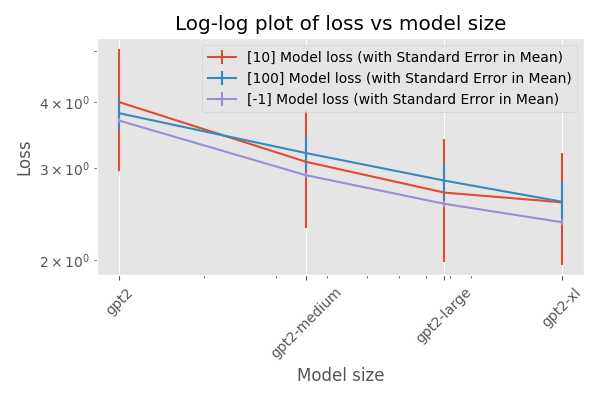
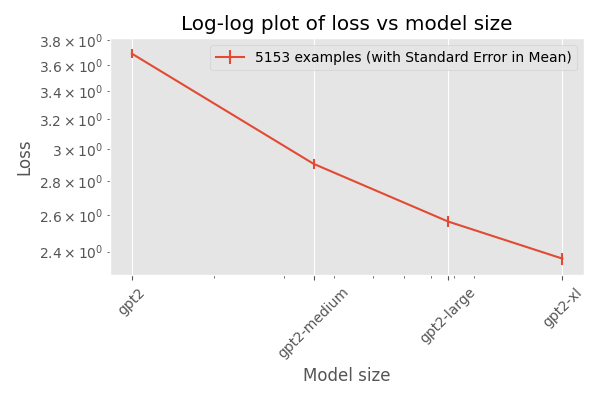
add ability to plot variable number of examples

diff --git a/eval_pipeline/plot_loss.py b/eval_pipeline/plot_loss.py
@@ -39,14 +39,14 @@ def main():
         base_results_dir = Path(project_dir, "results")
     exp_dir = Path(base_results_dir, args.exp_dir)
     if args.task_type == "classification":
-        plot_classification_loss(exp_dir)
+        plot_classification_loss(exp_dir, args.dataset_sizes)
     elif args.task_type == "numeric":
         plot_numeric_loss(exp_dir)
     else:
         raise ValueError(f"unknown task type {args.task_type}")
 
 
-def plot_classification_loss(exp_dir: Path):
+def plot_classification_loss(exp_dir: Path, dataset_sizes: list[int]):
     loss_csvs = [f for f in exp_dir.glob("*.csv") if f.name != "data.csv"]
     data_csv = pd.read_csv(Path(exp_dir, "data.csv"), index_col=0).reset_index(
         drop=True
@@ -63,13 +63,18 @@ def plot_classification_loss(exp_dir: Path):
     if len(loss_csvs) == 0:
         raise ValueError(f"{exp_dir} does not exist or contains no output files")
     dfs = {csv_file.stem: pd.read_csv(csv_file, index_col=0) for csv_file in loss_csvs}
-
-    averages = {model_name: np.mean(df["loss"]) for model_name, df in dfs.items()}
-    standard_errors = {
-        model_name: np.std(df["loss"]) / np.sqrt(len(df["loss"]))
-        for model_name, df in dfs.items()
-    }
-    plot_loss(exp_dir, averages, standard_errors, baseline=baseline_loss)
+    # one dict containing all different plots to be made, with their labels as keys
+    separate_plot_dict = {}
+    for size in dataset_sizes:
+        size_dfs = {name: df[:size] for name, df in dfs.items()}
+        averages = {model_name: np.mean(df["loss"]) for model_name, df in size_dfs.items()}
+        standard_errors = {
+            model_name: np.std(df["loss"]) / np.sqrt(len(df["loss"]))
+            for model_name, df in size_dfs.items()
+        }
+        size_name = str(size) if size != -1 else len(list(dfs.values())[0])
+        separate_plot_dict[size_name] = (averages, standard_errors)
+    plot_loss(exp_dir, separate_plot_dict, baseline=baseline_loss)
 
 
 def plot_numeric_loss(exp_dir: Path):
@@ -81,13 +86,12 @@ def plot_numeric_loss(exp_dir: Path):
         )
     with data_file.open("r") as f:
         averages = json.load(f)
-    plot_loss(exp_dir, averages)
+    plot_loss(exp_dir, {"numeric": (averages, None)})
 
 
 def plot_loss(
     exp_dir: Path,
-    loss_dict: dict[str, float],
-    standard_errors: Optional[dict[str, float]] = None,
+    separate_plots_dict: dict[str, tuple[dict, Optional[dict]]],
     baseline: Optional[float] = None,
 ) -> None:
     plt.style.use("ggplot")
@@ -102,23 +106,24 @@ def plot_loss(
             label="Baseline loss (equal probability)",
         )
 
-    if standard_errors is not None:
-        errorbar_data = [
-            (size_dict[size], loss, standard_errors[size])
-            for size, loss in loss_dict.items()
-        ]
-        xs, ys, yerrs = zip(*sorted(errorbar_data, key=lambda pair: pair[0]))
-        plt.errorbar(xs, ys, yerrs, label="Model loss (with Standard Error in Mean)")
-    else:
-        xy_pairs = [(size_dict[size], loss) for size, loss in loss_dict.items()]
-        xs, ys = zip(*sorted(xy_pairs, key=lambda pair: pair[0]))
-        plt.plot(xs, ys, label="Model loss")
+    for label, (loss_dict, standard_errors) in separate_plots_dict.items():
+        if standard_errors is not None:
+            errorbar_data = [
+                (size_dict[size], loss, standard_errors[size])
+                for size, loss in loss_dict.items()
+            ]
+            xs, ys, yerrs = zip(*sorted(errorbar_data, key=lambda pair: pair[0]))
+            plt.errorbar(xs, ys, yerrs, label=f"{label} examples (with Standard Error in Mean)")
+        else:
+            xy_pairs = [(size_dict[size], loss) for size, loss in loss_dict.items()]
+            xs, ys = zip(*sorted(xy_pairs, key=lambda pair: pair[0]))
+            plt.plot(xs, ys, label="f{label} examples")
 
     labels, ticks = zip(
         *[
             (name, n_params)
             for name, n_params in size_dict.items()
-            if name in loss_dict.keys()
+            if name in loss_dict.keys()  # type: ignore (there has to be at least one loss dict)
         ]
     )
 
@@ -154,6 +159,13 @@ def parse_args(args) -> argparse.Namespace:
         default="classification",
         choices=["classification", "numeric", "lambada"],
         help="The type of task that was run in this experiment",
+    )
+    parser.add_argument(
+        "--dataset-sizes",
+        type=int,
+        nargs="+",
+        help="The numbers of examples to use (-1 means all)",
+        default=[-1],
     )
     args = parser.parse_args(args)
     return args
